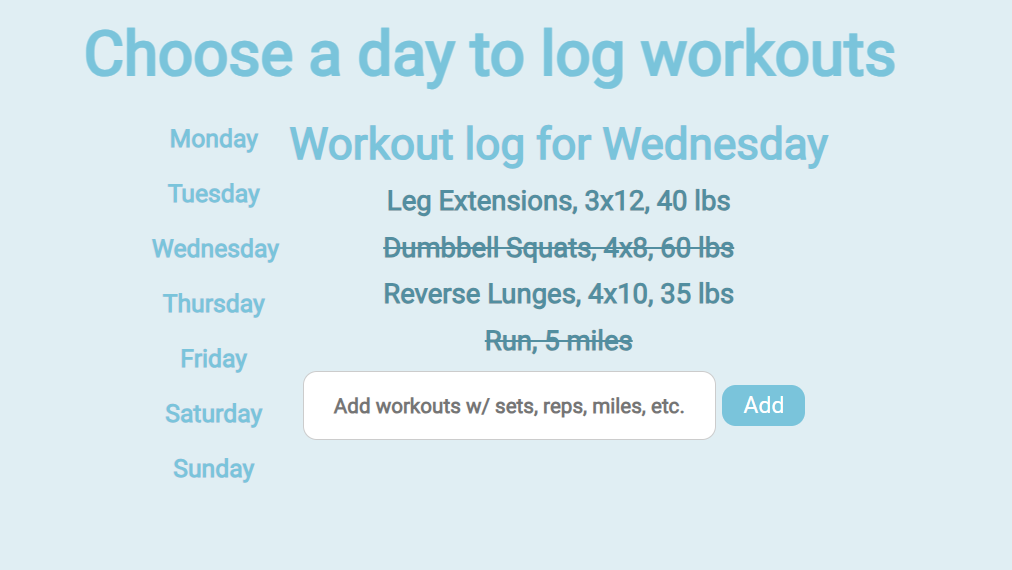
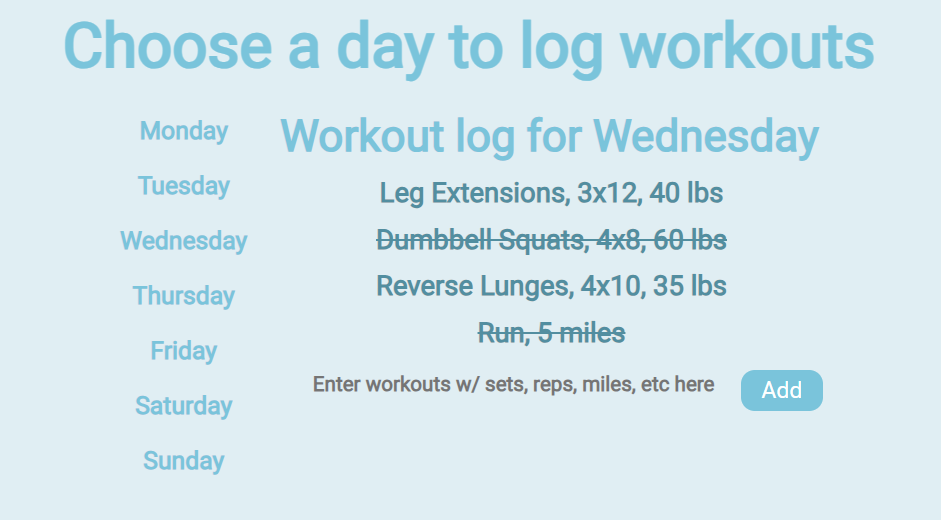
Updated css

Changed region(s): [[0.1233, 0.3077, 0.8937, 0.9231], [0.0616, 0.0308, 0.9245, 0.1538], [0.1233, 0.2154, 0.8937, 0.3077]]

diff --git a/vite-project/src/WorkoutLog.tsx b/vite-project/src/WorkoutLog.tsx
@@ -176,7 +176,7 @@ export const WorkOutLog = ({ day, array, updateArray }: Prop) => {
           className="input"
           type="text"
           value={input}
-          placeholder="Add workouts w/ sets, reps, miles, etc."
+          placeholder="Enter workouts w/ sets, reps, miles, etc here"
           onChange={(e) => setInput(e.currentTarget.value)}
         />
         {/* Add button */}

diff --git a/vite-project/src/index.css b/vite-project/src/index.css
@@ -21,13 +21,13 @@
 */
 .input{
   height: 50px;
-  width: 300px;
-  background-color: #ffffffff;
+  width: 320px;
+  background-color: #e0eef3;
   border-radius: 10px;
   padding: 10px;
   border: 1px solid #ccc;
+  border-style: none;
   margin-left: 10px;
-  margin-top: 10px;
   font-size: 15px;
   font-weight: bold;
   color:#7ac4db;

diff --git a/vite-project/src/Days.css b/vite-project/src/Days.css
@@ -16,7 +16,7 @@
 .bar-log{
   display: flex;
   flex-direction: row;
-  gap: 10px;
+  gap: 20px;
 }
 
 .bar{
@@ -27,7 +27,7 @@
 
 .button2{
   height: 30px;
-  width: 90px;
+  width: 100px;
   background-color: #e0eef3;
   color: #7ac4db;
   cursor: pointer;
